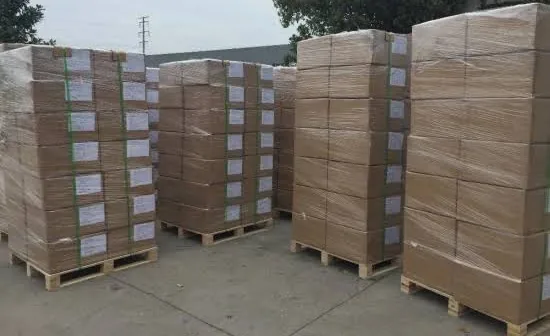
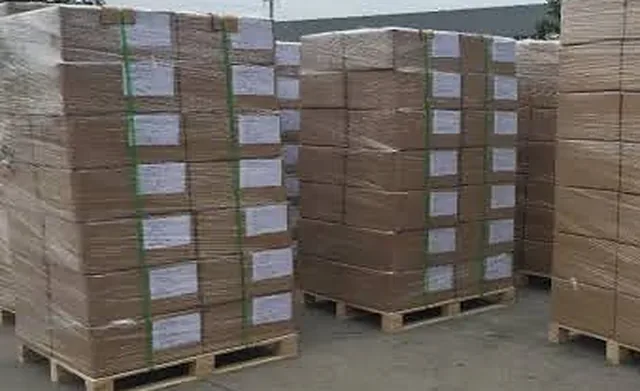
Use photos for every supply volume, cropped from the three supplied images
- Individual pads: the wrapped-pads photo, framed tighter
- Small packs / Multiple packs / Bulk packaging: close-up on a few packs,
  one full stack, and the whole wall, all from the stacked-packs photo
- Pallet quantities / Large-scale supply: two pallets, then the whole yard,
  from the pallet photo
- Caption under the visualiser now says photos show typical volumes
- Asset register updated; e2e checks all six gallery photos load

Claude-Session: https://claude.ai/code/session_01EDDdYE9mVrY6J5mbpxmsaj

diff --git a/index.html b/index.html
@@ -14,7 +14,7 @@
     <link rel="preconnect" href="https://fonts.gstatic.com" crossorigin />
     <link href="https://fonts.googleapis.com/css2?family=IBM+Plex+Mono:wght@500&family=IBM+Plex+Sans:wght@400;500;600;700&display=swap" rel="stylesheet" />
     <link rel="icon" href="assets/favicon.svg" type="image/svg+xml" />
-    <link rel="stylesheet" href="css/styles.css?v=17" />
+    <link rel="stylesheet" href="css/styles.css?v=18" />
     <script type="application/ld+json">
       {
         "@context": "https://schema.org",
@@ -170,7 +170,7 @@
                 </figure>
               </div>
               <div class="visual-foot">
-                <p class="hint">Illustrations only — not packaging specifications.</p>
+                <p class="hint">Photos show typical volumes — not packaging specifications.</p>
                 <button class="btn-link" type="button" data-gallery-toggle aria-expanded="false" aria-controls="supply-gallery">
                   <span data-gallery-toggle-text>View supply gallery</span>
                 </button>
@@ -370,14 +370,14 @@
       <div class="container">PURELINE HYGIENE</div>
     </footer>
 
-    <script src="shared/quantity.js?v=17"></script>
-    <script src="shared/pricing.js?v=17"></script>
-    <script src="shared/lead-schema.js?v=17"></script>
-    <script src="js/site-config.js?v=17"></script>
-    <script src="js/visual-tiers.js?v=17"></script>
-    <script src="js/illustrations.js?v=17"></script>
-    <script src="js/site.js?v=17"></script>
-    <script src="js/estimator.js?v=17"></script>
-    <script src="js/lead-funnel.js?v=17"></script>
+    <script src="shared/quantity.js?v=18"></script>
+    <script src="shared/pricing.js?v=18"></script>
+    <script src="shared/lead-schema.js?v=18"></script>
+    <script src="js/site-config.js?v=18"></script>
+    <script src="js/visual-tiers.js?v=18"></script>
+    <script src="js/illustrations.js?v=18"></script>
+    <script src="js/site.js?v=18"></script>
+    <script src="js/estimator.js?v=18"></script>
+    <script src="js/lead-funnel.js?v=18"></script>
   </body>
 </html>

diff --git a/faq.html b/faq.html
@@ -10,7 +10,7 @@
     <link rel="preconnect" href="https://fonts.gstatic.com" crossorigin />
     <link href="https://fonts.googleapis.com/css2?family=IBM+Plex+Mono:wght@500&family=IBM+Plex+Sans:wght@400;500;600;700&display=swap" rel="stylesheet" />
     <link rel="icon" href="assets/favicon.svg" type="image/svg+xml" />
-    <link rel="stylesheet" href="css/styles.css?v=17" />
+    <link rel="stylesheet" href="css/styles.css?v=18" />
   </head>
   <body>
     <a class="skip-link" href="#faq-content">Skip to questions</a>
@@ -236,7 +236,7 @@
       <div class="container">PURELINE HYGIENE</div>
     </footer>
 
-    <script src="js/site-config.js?v=17"></script>
-    <script src="js/site.js?v=17"></script>
+    <script src="js/site-config.js?v=18"></script>
+    <script src="js/site.js?v=18"></script>
   </body>
 </html>

diff --git a/js/site-config.js b/js/site-config.js
@@ -18,12 +18,12 @@ window.PURELINE_CONFIG = Object.freeze({
     logistics: '', // e.g. 'assets/photography/logistics-fleet.webp'
     product: 'assets/photography/product-pads.webp',
     tiers: Object.freeze({
-      individual: '',
-      'small-packs': '',
+      individual: 'assets/photography/individual-pads.webp',
+      'small-packs': 'assets/photography/small-packs.webp',
       'multiple-packs': 'assets/photography/multiple-packs.webp',
-      'bulk-packaging': '',
+      'bulk-packaging': 'assets/photography/bulk-packaging.webp',
       pallet: 'assets/photography/pallets.webp',
-      'large-scale': '',
+      'large-scale': 'assets/photography/large-scale.webp',
     }),
   }),
 });

diff --git a/docs/ASSET-REGISTER.md b/docs/ASSET-REGISTER.md
@@ -19,10 +19,11 @@ illustrations are replaced automatically. Non-critical images are lazy-loaded.
 | Asset | Used on | Source / creator | Licence or permission | Evidence | Status |
 |---|---|---|---|---|---|
 | `assets/favicon.svg` | All pages | Created for this project | Owned by PureLine Hygiene | — | In use |
-| Drawn illustrations (product, supply tiers, logistics scene) | Home page | Generated in code (`js/illustrations.js`) for this project | Owned by PureLine Hygiene | — | In use until photography is supplied |
+| Drawn illustrations (logistics scene; product and supply-tier drawings as fallback) | Home page | Generated in code (`js/illustrations.js`) for this project | Owned by PureLine Hygiene | — | Hero in use; tier drawings replaced by photos |
 | `assets/photography/product-pads.webp` | Home page, product panel | Photo supplied by PureLine Hygiene (two individually wrapped pads), placed on a white canvas | Owned by PureLine Hygiene (confirm it is your own photo) | — | In use |
-| `assets/photography/multiple-packs.webp` | Home page, "Multiple packs" supply volume and gallery | Photo supplied by PureLine Hygiene (stacked heat-sealed packs), cropped | Owned by PureLine Hygiene (confirm it is your own photo) | — | In use |
-| `assets/photography/pallets.webp` | Home page, "Pallet quantities" supply volume and gallery | Photo supplied by PureLine Hygiene (shrink-wrapped cartons on pallets), cropped | Owned by PureLine Hygiene (confirm it is your own photo) | — | In use |
+| `assets/photography/individual-pads.webp` | "Individual pads" volume + gallery | Same pads photo, framed tighter | As above | — | In use |
+| `assets/photography/small-packs.webp`, `multiple-packs.webp`, `bulk-packaging.webp` | "Small packs", "Multiple packs", "Bulk packaging" volumes + gallery | Crops of one photo supplied by PureLine Hygiene (stacked heat-sealed packs): a few packs, one stack, the whole wall | Owned by PureLine Hygiene (confirm it is your own photo) | — | In use |
+| `assets/photography/pallets.webp`, `large-scale.webp` | "Pallet quantities", "Large-scale supply" volumes + gallery | Crops of one photo supplied by PureLine Hygiene (shrink-wrapped cartons on pallets): two pallets, the whole yard | Owned by PureLine Hygiene (confirm it is your own photo) | — | In use |
 | `assets/logos/b-bbee.webp` | Home page, credentials strip | Cropped from a B-BBEE promotional banner supplied by PureLine Hygiene (the "B-BBEE" wordmark only) | To be recorded: confirm the banner's source and licence (B-BBEE has no official logo) | — | In use; record source |
 | `assets/logos/sabs.webp` | Home page, credentials strip | SABS logo supplied by PureLine Hygiene | SABS permit (management confirmed PureLine holds one) | Add permit number and a copy of the permit | In use; file evidence |
 | `assets/logos/proudly-south-african.webp` | Home page, credentials strip | Proudly South African logo supplied by PureLine Hygiene | Proudly SA membership licence (management confirmed membership) | Add membership number and licence terms | In use; file evidence |
